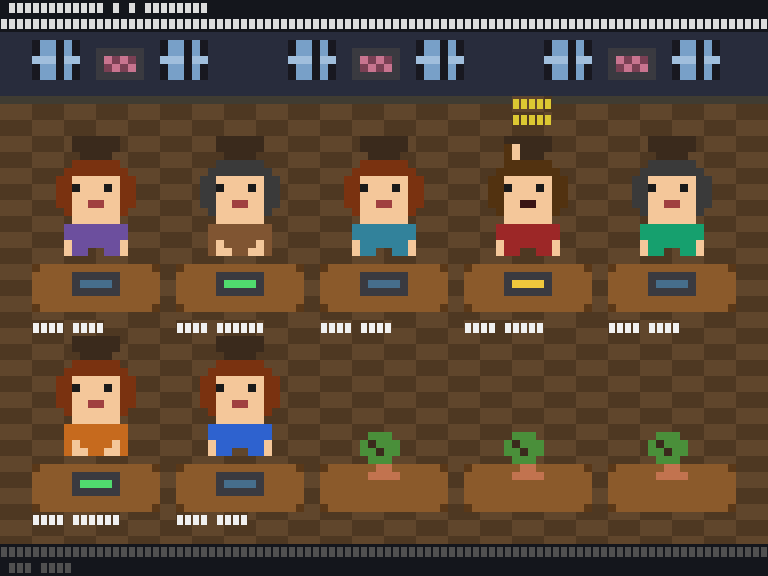
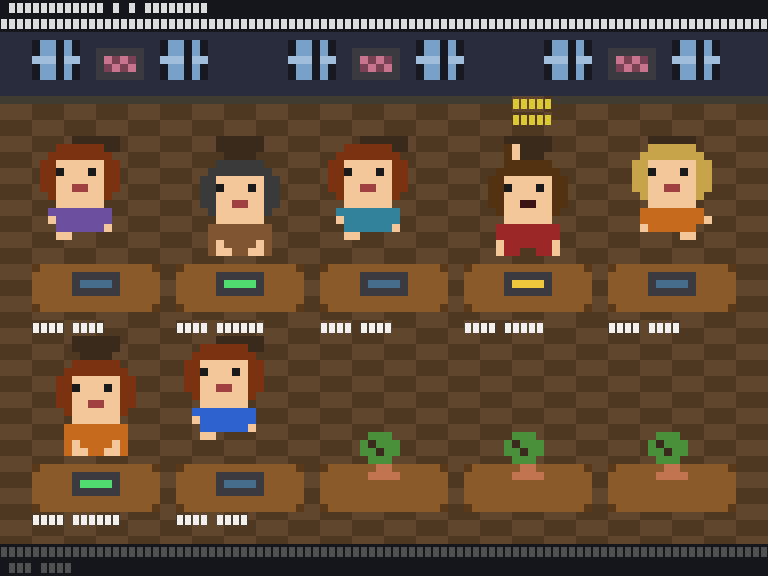
feat(tui): post-task walking — character stands up and bobs after finishing
When a slot enters Idle within the last 3s (i.e. just transitioned from
Active/Waiting via PostToolUse or similar), the renderer plays a 2-frame
walking sprite with:
  - +2 px upward y-offset (stands out of chair)
  - ±2 px horizontal bob over 200ms cycle

After the 3s window expires, character drops back to the seated idle pose.
Pure renderer-side logic; no event types or state shape changes.

diff --git a/crates/ascii-agents/src/tui/renderer.rs b/crates/ascii-agents/src/tui/renderer.rs
@@ -309,7 +309,15 @@ pub fn draw_scene<B: Backend>(
             blit_static(&mut buf, "chair", slot_x + 4, stack_top);
 
             // 2. Character animation (10 wide, 12 tall).
+            // "Just finished" walk: if Idle was entered in the last
+            // WALK_AFTER_TASK seconds, play the walking animation with a
+            // small horizontal bob, signaling "task done, taking a breath."
+            let walk_window = std::time::Duration::from_secs(3);
+            let in_post_task_walk = matches!(slot.state, ActivityState::Idle)
+                && now.saturating_duration_since(slot.state_started_at) < walk_window;
+
             let anim_name = match &slot.state {
+                _ if in_post_task_walk => "walking",
                 ActivityState::Idle => "idle",
                 ActivityState::Active { .. } => "typing",
                 ActivityState::Waiting { .. } => "waiting",
@@ -326,10 +334,21 @@ pub fn draw_scene<B: Backend>(
                 let char_y = if matches!(slot.state, ActivityState::Waiting { .. }) {
                     // Waiting sprite is 14 tall (raised arm above head) — shift up.
                     stack_top.saturating_add(1)
+                } else if in_post_task_walk {
+                    // Stand up out of chair while walking.
+                    stack_top + 1
                 } else {
                     stack_top + 3
                 };
-                blit_frame(&frame_rc, slot_x + 3, char_y, &mut buf);
+                let char_x = if in_post_task_walk {
+                    // Oscillate ±2 px around the slot center.
+                    let ms = now.saturating_duration_since(slot.state_started_at).as_millis() as i32;
+                    let bob = ((ms / 200) % 4) - 2; // -2, -1, 0, 1 ... loops
+                    (slot_x as i32 + 3 + bob).max(0) as u16
+                } else {
+                    slot_x + 3
+                };
+                blit_frame(&frame_rc, char_x, char_y, &mut buf);
             }
 
             // 3. Desk in front of character (16 wide, 6 tall, slightly oversized

diff --git a/crates/ascii-agents/src/tui/embedded_pack.rs b/crates/ascii-agents/src/tui/embedded_pack.rs
@@ -10,6 +10,8 @@ pub fn load_default_pack() -> Result<Pack> {
     let typing_1 = include_str!("../../../../assets/sprites/default/typing_1.sprite");
     let typing_2 = include_str!("../../../../assets/sprites/default/typing_2.sprite");
     let waiting = include_str!("../../../../assets/sprites/default/waiting.sprite");
+    let walking_0 = include_str!("../../../../assets/sprites/default/walking_0.sprite");
+    let walking_1 = include_str!("../../../../assets/sprites/default/walking_1.sprite");
     let desk = include_str!("../../../../assets/sprites/default/desk.sprite");
     let chair = include_str!("../../../../assets/sprites/default/chair.sprite");
     let monitor = include_str!("../../../../assets/sprites/default/monitor.sprite");
@@ -24,6 +26,8 @@ pub fn load_default_pack() -> Result<Pack> {
             ("typing_1.sprite", typing_1),
             ("typing_2.sprite", typing_2),
             ("waiting.sprite", waiting),
+            ("walking_0.sprite", walking_0),
+            ("walking_1.sprite", walking_1),
             ("desk.sprite", desk),
             ("chair.sprite", chair),
             ("monitor.sprite", monitor),

diff --git a/crates/ascii-agents/examples/snapshot.rs b/crates/ascii-agents/examples/snapshot.rs
@@ -74,7 +74,8 @@ fn sample_scene(now: Instant) -> SceneState {
             },
             Duration::from_millis(0),
         ),
-        ("idle3", ActivityState::Idle, Duration::from_millis(0)),
+        // Just finished a task — within the 3s walking window.
+        ("just-done", ActivityState::Idle, Duration::from_millis(400)),
         (
             "typing-py",
             ActivityState::Active {